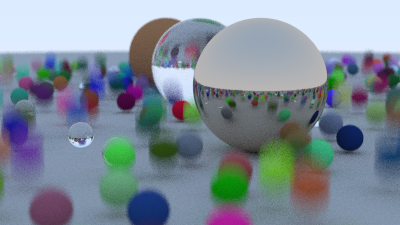
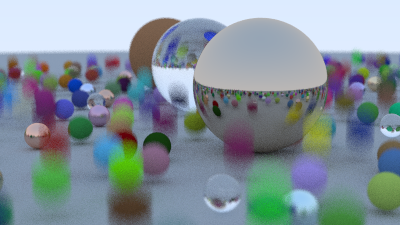
texture

diff --git a/src/bvh.rs b/src/bvh.rs
@@ -1,5 +1,8 @@
 use crate::aabb::*;
 use crate::object::*;
+use rand::prelude::*;
+use std::cmp::Ordering;
+use std::ops::Range;
 use std::sync::Arc;
 
 pub struct BvhNode {
@@ -9,20 +12,82 @@ pub struct BvhNode {
 }
 
 impl BvhNode {
-    pub fn new(left: Arc<dyn Object>, right: Arc<dyn Object>, bbox: Aabb) -> Self {
+    pub fn new(objects: &mut Objects, start: usize, end: usize, time: Range<f64>) -> Self {
+        let mut rng = rand::thread_rng();
+        let axis = rng.gen_range(0..3);
+        let comparator = match axis {
+            0 => Self::x_comparator,
+            1 => Self::y_comparator,
+            2 => Self::z_comparator,
+            _ => unreachable!("Random int in range [0, 2] must be in range"),
+        };
+        let object_span = end - start;
+        let (left, right) = match object_span {
+            1 => {
+                let first: Arc<dyn Object> = objects.objects.remove(0).into();
+                (first.clone(), first)
+            }
+            2 => {
+                let first: Arc<dyn Object> = objects.objects.remove(0).into();
+                let second: Arc<dyn Object> = objects.objects.remove(0).into();
+                match comparator(&*first, &*second) {
+                    Ordering::Less => (first, second),
+                    _ => (second, first),
+                }
+            }
+            _ => {
+                objects.objects.sort_by(|x, y| comparator(&**x, &**y));
+                let mid = start + object_span / 2;
+                let left: Arc<dyn Object> = Arc::new(Self::new(objects, start, mid, time.clone()));
+                let right: Arc<dyn Object> = Arc::new(Self::new(objects, mid, end, time.clone()));
+
+                (left, right)
+            }
+        };
+
+        let box_left = left.bounding_box(&time).unwrap();
+        let box_right = right.bounding_box(&time).unwrap();
+        let bbox = surrounding_box(box_left, box_right);
         Self { left, right, bbox }
+    }
+
+    fn comparator(x: &dyn Object, y: &dyn Object, axis: u8) -> Ordering {
+        let box_x = x.bounding_box(&(0.0..0.0)).unwrap();
+        let box_y = y.bounding_box(&(0.0..0.0)).unwrap();
+        let x = box_x.box_min[axis];
+        let y = box_y.box_min[axis];
+        if x < y {
+            Ordering::Less
+        } else if x > y {
+            Ordering::Greater
+        } else {
+            Ordering::Equal
+        }
+    }
+    pub fn x_comparator(x: &dyn Object, y: &dyn Object) -> Ordering {
+        Self::comparator(x, y, 0)
+    }
+    pub fn y_comparator(x: &dyn Object, y: &dyn Object) -> Ordering {
+        Self::comparator(x, y, 1)
+    }
+    pub fn z_comparator(x: &dyn Object, y: &dyn Object) -> Ordering {
+        Self::comparator(x, y, 2)
     }
 }
 
 impl Object for BvhNode {
-    fn hit(&self, r: &Ray, t_min: f64, t_max: f64) -> Option<HitRecord> {
-        if self.bbox.hit(r, t_min, t_max) {
-            let hit_left = self.left.hit(r, t_min, t_max);
-            if hit_left.is_some() {return hit_left};
-            let hit_right = self.right.hit(r, t_min, t_max);
-            if hit_right.is_some() { return  hit_right};
+    fn hit(&self, ray: &Ray, t_min: f64, t_max: f64) -> Option<HitRecord> {
+        if !self.bbox.hit(ray, t_min, t_max) {
+            return None;
         }
-        None
+        let left_record = self.left.hit(ray, t_min, t_max);
+        let t = if let Some(record) = &left_record {
+            record.t
+        } else {
+            t_max
+        };
+        let right_record = self.right.hit(ray, t_min, t);
+        right_record.or(left_record)
     }
 
     fn bounding_box(&self, _time_range: &std::ops::Range<f64>) -> Option<Aabb> {

diff --git a/src/bin/main.rs b/src/bin/main.rs
@@ -1,10 +1,12 @@
 use png::*;
 use rand::prelude::*;
+use ray::bvh::*;
 use ray::camera::*;
 use ray::geom::*;
 use ray::material::*;
 use ray::object::*;
 use ray::sphere::*;
+use ray::texture::CheckeredTexture;
 use rayon::prelude::*;
 use std::fs::File;
 use std::io::BufWriter;
@@ -46,7 +48,7 @@ fn write_png(data: &[u8], width: u32, height: u32, name: &'static str) {
     writer.write_image_data(data).unwrap();
 }
 
-fn ray_color(r: &Ray, world: &Objects, depth: u32) -> Color {
+fn ray_color(r: &Ray, world: &impl Object, depth: u32) -> Color {
     if depth == 0 {
         return BLACK;
     }
@@ -66,10 +68,10 @@ fn ray_color(r: &Ray, world: &Objects, depth: u32) -> Color {
 #[allow(dead_code)]
 fn glass_scene() -> Objects {
     let mut world = Objects::new(Vec::new());
-    let mat_ground = Arc::new(Lambertian::new(Color::new(0.8, 0.8, 0.0)));
+    let mat_ground = Arc::new(Lambertian::solid_color(Color::new(0.8, 0.8, 0.0)));
     let mat_center = Arc::new(Dielectric::new(1.5));
     let mat_left = Arc::new(Dielectric::new(1.5));
-    let mat_right = Arc::new(Lambertian::new(Color::new(0.8, 0.6, 0.2)));
+    let mat_right = Arc::new(Lambertian::solid_color(Color::new(0.8, 0.6, 0.2)));
 
     world.add(Box::new(Sphere::new(
         point3(0.0, -100.5, -1.0),
@@ -96,12 +98,16 @@ fn glass_scene() -> Objects {
 }
 
 #[allow(dead_code)]
-fn random_scene() -> Objects {
+fn random_scene() -> impl Object {
     let mut rng = rand::thread_rng();
     let mut world = Objects::new(Vec::new());
 
-    let ground_mat = Arc::new(Lambertian::new(Color::new(0.5, 0.5, 0.5)));
-    let ground_sphere = Sphere::new(Point3::new(0.0, -1000.0, 0.0), 1000.0, ground_mat);
+    let ground_mat = Arc::new(Lambertian::solid_color(Color::new(0.5, 0.5, 0.5)));
+    let checker = Arc::new(Lambertian::new(CheckeredTexture::with_color(
+        vec3(0.2, 0.3, 0.1),
+        vec3(0.9, 0.9, 0.9),
+    )));
+    let ground_sphere = Sphere::new(Point3::new(0.0, -1000.0, 0.0), 1000.0, checker);
 
     world.add(Box::new(ground_sphere));
 
@@ -121,9 +127,9 @@ fn random_scene() -> Objects {
             if choose_mat < 0.85 {
                 // Diffuse
                 let albedo = rand_color(&mut rng, 0.0..1.0) * rand_color(&mut rng, 0.0..1.0);
-                let sphere_mat = Arc::new(Lambertian::new(albedo));
+                let sphere_mat = Arc::new(Lambertian::solid_color(albedo));
                 let center2 = center + vec3(0.0, rng.gen_range(0.0..0.5), 0.0);
-                let sphere = Sphere::new_moving(center, center2, 0.2, sphere_mat, 0.0..1.0);
+                let sphere = Sphere::new(center, 0.2, sphere_mat);
 
                 world.add(Box::new(sphere));
             } else if choose_mat < 0.95 {
@@ -145,7 +151,7 @@ fn random_scene() -> Objects {
     }
 
     let mat1 = Arc::new(Dielectric::new(1.5));
-    let mat2 = Arc::new(Lambertian::new(Color::new(0.4, 0.2, 0.1)));
+    let mat2 = Arc::new(Lambertian::solid_color(Color::new(0.4, 0.2, 0.1)));
     let mat3 = Arc::new(Metal::new(Color::new(0.7, 0.6, 0.5), 0.0));
 
     let sphere1 = Sphere::new(Point3::new(0.0, 1.0, 0.0), 1.0, mat1);
@@ -156,12 +162,13 @@ fn random_scene() -> Objects {
     world.add(Box::new(sphere2));
     world.add(Box::new(sphere3));
 
-    world
+    let n = world.objects.len();
+    BvhNode::new(&mut world, 0, n, 0.0..1.0)
 }
 fn main() {
     // Image
     const ASPECT_RATIO: f64 = 16.0 / 9.0;
-    const IMAGE_WIDTH: u32 = 400;
+    const IMAGE_WIDTH: u32 = 800;
     const IMAGE_HEIGHT: u32 = ((IMAGE_WIDTH as f64) / ASPECT_RATIO) as u32;
     const SAMPLES_PER_PIXEL: u32 = 100;
     const MAX_DEPTH: u32 = 50;

diff --git a/src/sphere.rs b/src/sphere.rs
@@ -2,6 +2,7 @@ use crate::aabb::*;
 use crate::geom::*;
 use crate::material::Material;
 use crate::object::*;
+use std::f64::consts::PI;
 use std::ops::Range;
 use std::sync::Arc;
 
@@ -50,16 +51,13 @@ impl Sphere {
     }
 }
 
-/* bool moving_sphere::bounding_box(double _time0, double _time1, aabb& output_box) const {
-    aabb box0(
-        center(_time0) - vec3(radius, radius, radius),
-        center(_time0) + vec3(radius, radius, radius));
-    aabb box1(
-        center(_time1) - vec3(radius, radius, radius),
-        center(_time1) + vec3(radius, radius, radius));
-    output_box = surrounding_box(box0, box1);
-    return true;
-} */
+/// Returns (u, v)
+pub fn sphere_uv(p: Point3) -> (f64, f64) {
+    let theta = (-p.y).acos();
+    let phi = (-p.z).atan2(p.x) + PI;
+    (phi / (2.0 * PI), theta / PI)
+}
+
 impl Object for Sphere {
     fn hit(&self, r: &Ray, t_min: f64, t_max: f64) -> Option<HitRecord> {
         let oc = r.origin - self.center(r.time);
@@ -82,14 +80,17 @@ impl Object for Sphere {
             };
         }
         let p = r.at(root);
+        let outward_normal = (p - self.center(r.time)) / self.radius;
+        let (u, v) = sphere_uv(p);
         let mut rec = HitRecord {
             t: root,
+            u,
+            v,
             p,
             material: self.material.clone(),
             normal: ZERO,
             front_face: true,
         };
-        let outward_normal = (rec.p - self.center(r.time)) / self.radius;
         rec.set_face_normal(r, outward_normal);
         Some(rec)
     }

diff --git a/src/material.rs b/src/material.rs
@@ -1,20 +1,42 @@
 use crate::geom::*;
 use crate::object::*;
+use crate::texture::*;
 use rand::prelude::*;
+use std::sync::Arc;
+
 pub trait Material: Send + Sync {
     fn scatter(&self, r_in: &Ray, rec: &HitRecord) -> Option<(Color, Ray)>;
 }
-pub struct Lambertian {
-    albedo: Color,
+pub struct Lambertian<T>
+where
+    T: Texture,
+{
+    albedo: Arc<T>,
 }
 
-impl Lambertian {
-    pub fn new(a: Color) -> Lambertian {
-        Lambertian { albedo: a }
+impl<T> Lambertian<T>
+where
+    T: Texture,
+{
+    pub fn new(t: T) -> Self {
+        Lambertian {
+            albedo: Arc::new(t),
+        }
     }
 }
 
-impl Material for Lambertian {
+impl Lambertian<Color> {
+    pub fn solid_color(c: Color) -> Self {
+        Lambertian {
+            albedo: Arc::new(c),
+        }
+    }
+}
+
+impl<T> Material for Lambertian<T>
+where
+    T: Texture,
+{
     fn scatter(&self, r_in: &Ray, rec: &HitRecord) -> Option<(Color, Ray)> {
         let mut rng = thread_rng();
         let mut scatter_direction = rec.normal + random_unit_vector(&mut rng);
@@ -23,7 +45,7 @@ impl Material for Lambertian {
             scatter_direction = rec.normal;
         }
         let scattered = Ray::new(rec.p, scatter_direction, r_in.time);
-        Some((self.albedo, scattered))
+        Some((self.albedo.value(rec.u, rec.v, rec.p), scattered))
     }
 }
 pub struct Metal {

diff --git a/src/object.rs b/src/object.rs
@@ -30,6 +30,8 @@ pub struct HitRecord {
     pub normal: Vec3,
     pub material: Arc<dyn Material>,
     pub t: f64,
+    pub u: f64,
+    pub v: f64,
     pub front_face: bool,
 }
 
@@ -38,6 +40,8 @@ impl HitRecord {
         p: Point3,
         normal: Vec3,
         material: Arc<dyn Material>,
+        u: f64,
+        v: f64,
         t: f64,
         front_face: bool,
     ) -> Self {
@@ -46,6 +50,8 @@ impl HitRecord {
             normal,
             material,
             t,
+            u,
+            v,
             front_face,
         }
     }
@@ -66,7 +72,7 @@ pub trait Object: Send + Sync {
 }
 
 pub struct Objects {
-    objects: Vec<Box<dyn Object>>,
+    pub objects: Vec<Box<dyn Object>>,
 }
 
 impl Objects {

diff --git a/src/geom.rs b/src/geom.rs
@@ -4,6 +4,16 @@ use std::ops::{Add, AddAssign, Div, DivAssign, Mul, MulAssign, Neg, Sub, SubAssi
 
 pub const INFINITY: f64 = std::f64::MAX;
 pub const PI: f64 = std::f64::consts::PI;
+
+#[derive(Clone, Copy, Debug)]
+pub struct Vec3 {
+    pub x: f64,
+    pub y: f64,
+    pub z: f64,
+}
+
+pub type Point3 = Vec3;
+pub type Color = Vec3;
 pub const BLACK: Color = Color {
     x: 0.0,
     y: 0.0,
@@ -32,15 +42,6 @@ pub fn degrees_to_radians(degrees: f64) -> f64 {
     degrees * PI / 180.0
 }
 
-#[derive(Clone, Copy, Debug)]
-pub struct Vec3 {
-    pub x: f64,
-    pub y: f64,
-    pub z: f64,
-}
-
-pub type Point3 = Vec3;
-pub type Color = Vec3;
 
 pub fn vec3(x: f64, y: f64, z: f64) -> Vec3 {
     Vec3::new(x, y, z)

diff --git a/src/lib.rs b/src/lib.rs
@@ -5,3 +5,4 @@ pub mod geom;
 pub mod material;
 pub mod object;
 pub mod sphere;
+pub mod texture;
